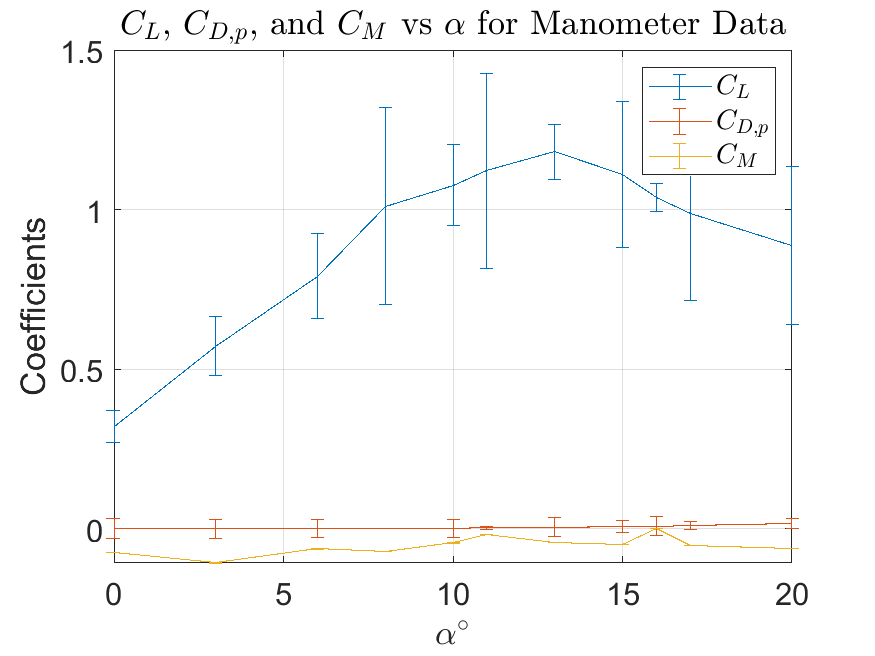
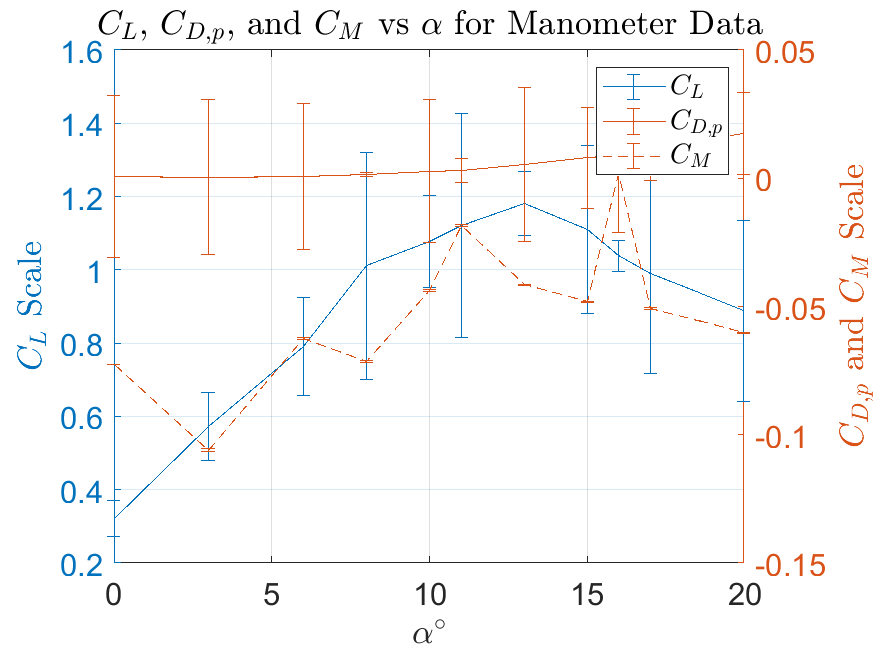
MAIN: Added double axis figures.

diff --git a/Code/coefficient_plots.m b/Code/coefficient_plots.m
@@ -17,13 +17,16 @@ cm_err = scani_coeff_uncertainty.data(:, 4);
 
 % Plot coefficients.
 figure
-errorbar(aoa, cl, cl_err)
+yyaxis left
+errorbar(aoa, cl, cl_err, 'linewidth', 0.5)
+ylabel('$C_L$ Scale', 'interpreter', 'latex')
 hold on
-errorbar(aoa, cdp, cdp_err)
+yyaxis right
+errorbar(aoa, cdp, cdp_err, 'linewidth', 0.5)
 hold on
-errorbar(aoa, cm, cm_err)
+errorbar(aoa, cm, cm_err, 'linewidth', 0.5)
 xlabel('$\alpha^\circ$', "interpreter", "latex")
-ylabel('Coefficients')
+ylabel('$C_{D,p}$ and $C_M$ Scale', 'interpreter', 'latex')
 title('$C_L$, $C_{D,p}$, and $C_M$ vs $\alpha$ for Scanivalve Data', 'interpreter', 'latex')
 legend('$C_L$', '$C_{D,p}$', '$C_M$', 'interpreter', 'latex')
 grid on
@@ -32,7 +35,7 @@ saveas(gcf,'scanivalve_cl_cd_cm.png')
 
 % Plot cL vs cD.
 figure
-errorbar(cdp, cl, cl_err, cl_err, cdp_err, cdp_err)
+errorbar(cdp, cl, cl_err, cl_err, cdp_err, cdp_err, 'linewidth', 0.5)
 xlabel('$C_{D,p}$', "interpreter", "latex")
 ylabel('$C_L$', "interpreter", "latex")
 title('$C_L$ vs $C_{D,p}$ for Scanivalve Data', 'interpreter', 'latex')
@@ -57,13 +60,16 @@ cm_err = mano_coeff_uncertainty.data(:, 4);
 
 % Plot coefficients.
 figure
-errorbar(aoa, cl, cl_err)
+yyaxis left
+errorbar(aoa, cl, cl_err, 'linewidth', 0.5)
+ylabel('$C_L$ Scale', 'interpreter', 'latex')
 hold on
-errorbar(aoa, cdp, cdp_err)
+yyaxis right
+errorbar(aoa, cdp, cdp_err, 'linewidth', 0.5)
 hold on
-errorbar(aoa, cm, cm_err)
+errorbar(aoa, cm, cm_err, 'linewidth', 0.5)
 xlabel('$\alpha^\circ$', "interpreter", "latex")
-ylabel('Coefficients')
+ylabel('$C_{D,p}$ and $C_M$ Scale', 'interpreter', 'latex')
 title('$C_L$, $C_{D,p}$, and $C_M$ vs $\alpha$ for Manometer Data', 'interpreter', 'latex')
 legend('$C_L$', '$C_{D,p}$', '$C_M$', 'interpreter', 'latex')
 grid on
@@ -72,7 +78,7 @@ saveas(gcf,'manometer_cl_cd_cm.png')
 
 % Plot cL vs cD.
 figure
-errorbar(cdp, cl, cl_err, cl_err, cdp_err, cdp_err)
+errorbar(cdp, cl, cl_err, cl_err, cdp_err, cdp_err, 'linewidth', 0.5)
 xlabel('$C_{D,p}$', "interpreter", "latex")
 ylabel('$C_L$', "interpreter", "latex")
 title('$C_L$ vs $C_{D,p}$ for Manometer Data', 'interpreter', 'latex')
